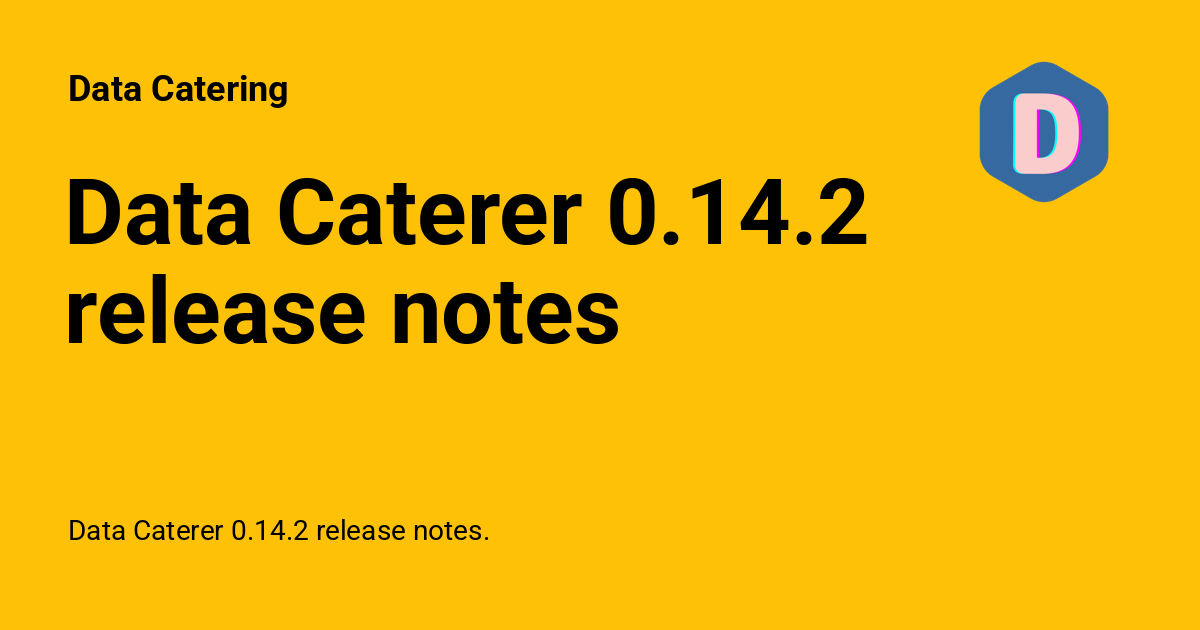
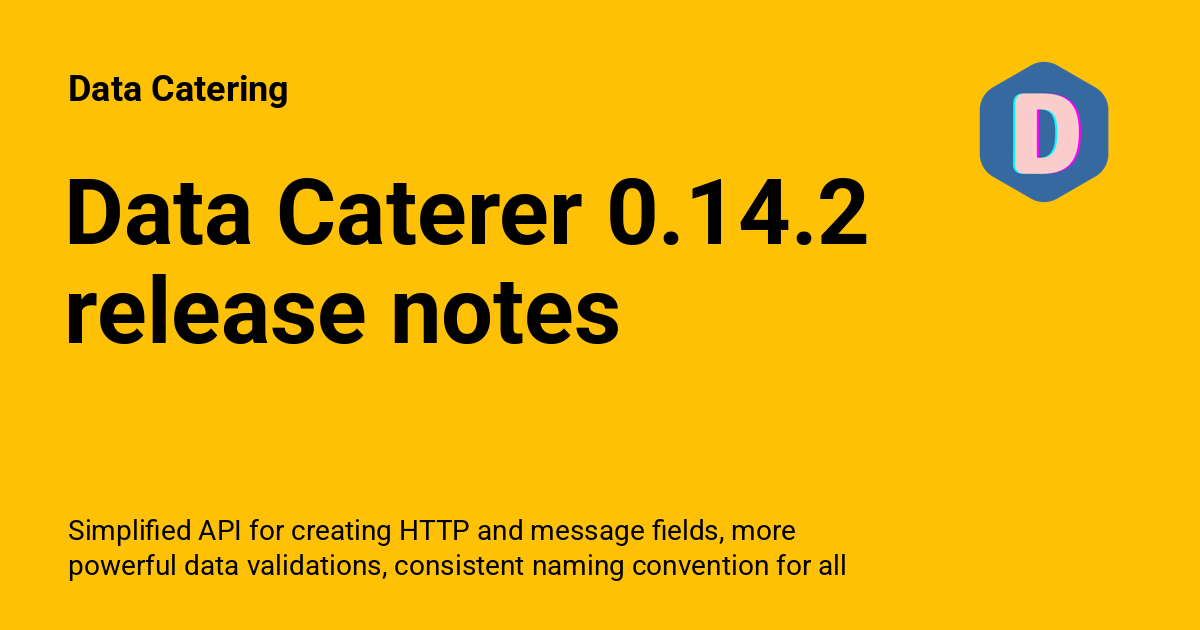
Deployed 1be5a34 to 0.14.2 with MkDocs 1.6.1 and mike 2.1.3

Changed region(s): [[0.0617, 0.8143, 0.7092, 0.9349]]

diff --git a/0.14.2/use-case/changelog/0.14.2/index.html b/0.14.2/use-case/changelog/0.14.2/index.html
@@ -6,7 +6,7 @@
       <meta charset="utf-8">
       <meta name="viewport" content="width=device-width,initial-scale=1">
       
-        <meta name="description" content="Data Caterer 0.14.2 release notes.">
+        <meta name="description" content="Simplified API for creating HTTP and message fields, more powerful data validations, consistent naming convention for all data sources, validate HTTP responses, JSON schema for YAML files and more.">
       
       
       
@@ -73,7 +73,7 @@
       
         <meta  property="og:title"  content="Data Caterer 0.14.2 release notes - Data Catering" >
       
-        <meta  property="og:description"  content="Data Caterer 0.14.2 release notes." >
+        <meta  property="og:description"  content="Simplified API for creating HTTP and message fields, more powerful data validations, consistent naming convention for all data sources, validate HTTP responses, JSON schema for YAML files and more." >
       
         <meta  property="og:image"  content="https://data.catering/0.14.2/assets/images/social/use-case/changelog/0.14.2.png" >
       
@@ -89,7 +89,7 @@
       
         <meta  name="twitter:title"  content="Data Caterer 0.14.2 release notes - Data Catering" >
       
-        <meta  name="twitter:description"  content="Data Caterer 0.14.2 release notes." >
+        <meta  name="twitter:description"  content="Simplified API for creating HTTP and message fields, more powerful data validations, consistent naming convention for all data sources, validate HTTP responses, JSON schema for YAML files and more." >
       
         <meta  name="twitter:image"  content="https://data.catering/0.14.2/assets/images/social/use-case/changelog/0.14.2.png" >
       
